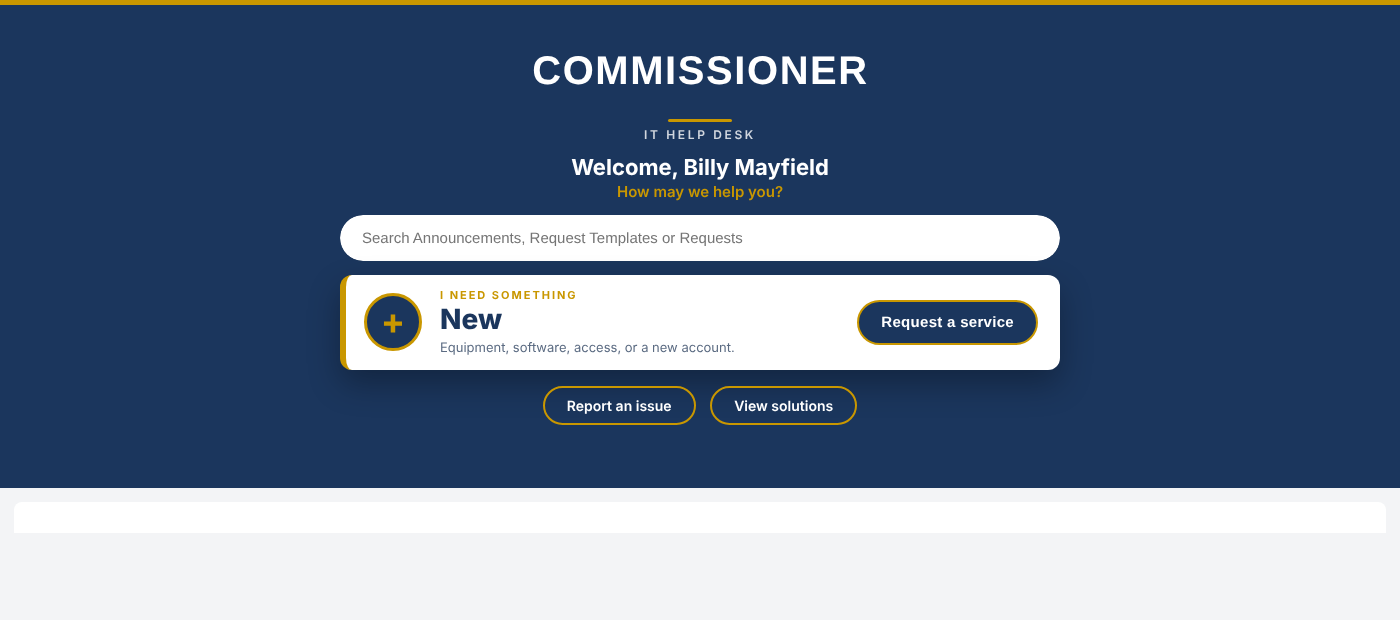
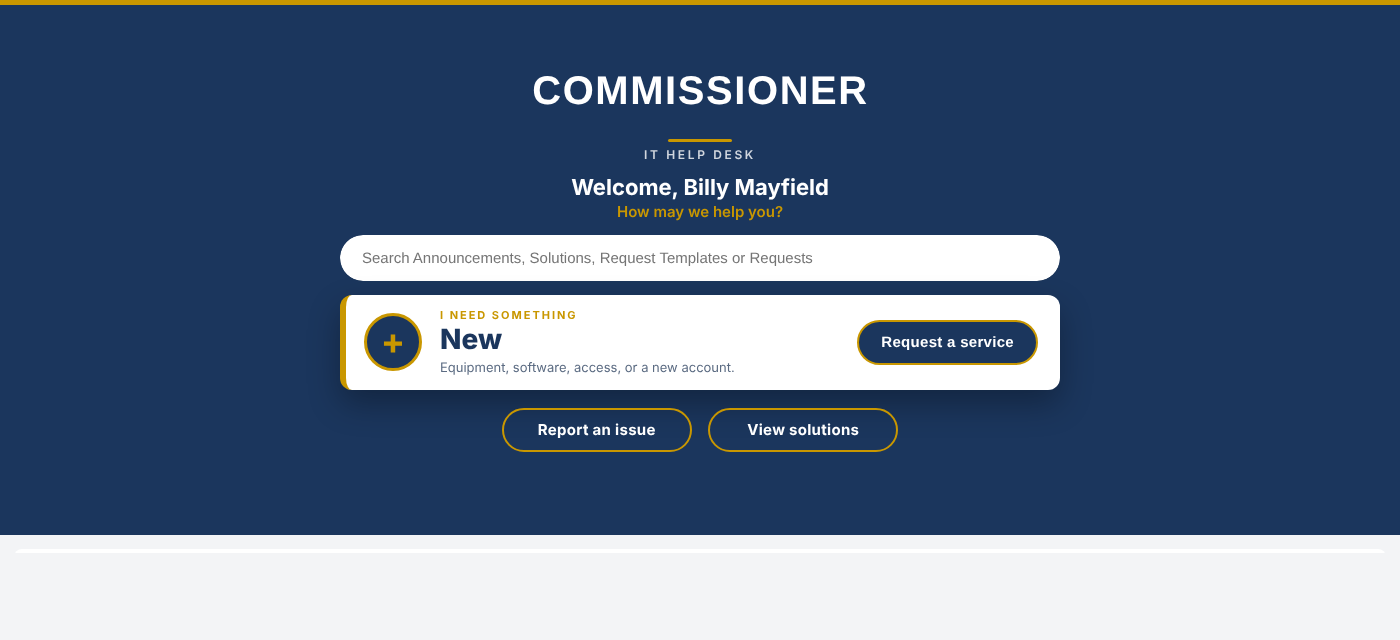
Enlarge secondary buttons and close gap under the service card
Report an issue and View solutions now match the Request a service
button size. Card row wrappers get explicit auto heights so SDP's fixed
row height no longer pushes the buttons to the bottom of the band.

Claude-Session: https://claude.ai/code/session_015pU9vvdz6hrWUMmPn62hMD

Changed region(s): [[0.2457, 0.0919, 0.7679, 0.7048], [0.0, 0.7661, 1.0, 0.8581]]

diff --git a/itdesk-requester-portal/requester-home-sdp-safe.html b/itdesk-requester-portal/requester-home-sdp-safe.html
@@ -1,9 +1,9 @@
-<!-- Commissioner IT Help Desk - Requester Home. SDP-SAFE VERSION (v8).
+<!-- Commissioner IT Help Desk - Requester Home. SDP-SAFE VERSION (v9).
      Fits inside the ~400px band SDP forces on this container. Only uses CSS the editor keeps.
      The one image URL below is the white NAME LOGO. -->
 <div class="req-dasboard-maincontainer req-dasboard-itdesk-container" id="upper-part-ssp" style="display:block; box-sizing:border-box; width:100%; height:auto; min-height:0; margin:0; padding:0; background-color:#1B365D; border:0; border-radius:0; overflow:hidden">
 
-  <div style="display:block; box-sizing:border-box; width:100%; margin:0; padding:26px 24px 22px; background-color:#1B365D; border-top:5px solid #C99700; text-align:center; font-family:'Segoe UI', Roboto, Helvetica, Arial, sans-serif">
+  <div style="display:block; box-sizing:border-box; width:100%; margin:0; padding:46px 24px 30px; background-color:#1B365D; border-top:5px solid #C99700; text-align:center; font-family:'Segoe UI', Roboto, Helvetica, Arial, sans-serif">
 
     <div aria-label="Rodney Ellis, Commissioner" style="display:block; width:100%; max-width:440px; height:80px; margin:0 auto; background-image:url(/app/itdesk/api/v3/ssp_background_images/273837000000728002/_images/88004); background-repeat:no-repeat; background-position:center; background-size:contain"></div>
     <div aria-hidden="true" style="display:block; width:64px; height:3px; margin:8px auto 6px; background-color:#C99700; border-radius:2px"></div>
@@ -18,8 +18,8 @@
       </div>
     </div>
 
-    <div class="req-dashboard-innerwrapper" style="display:block; width:100%; max-width:720px; margin:0 auto; padding:0; text-align:left">
-      <div class="req-dashboard-card-wrapper request-service-box" style="display:block; width:100%; margin:0; padding:0; float:none">
+    <div class="req-dashboard-innerwrapper" style="display:block; width:100%; max-width:720px; height:auto; min-height:0; max-height:none; margin:0 auto; padding:0; text-align:left">
+      <div class="req-dashboard-card-wrapper request-service-box" style="display:block; width:100%; height:auto; min-height:0; max-height:none; margin:0; padding:0; float:none">
         <div class="req-dashboard-card req-new" style="display:block; box-sizing:border-box; width:100%; height:auto; min-height:0; margin:0; padding:14px 22px 14px 18px; background-color:#FFFFFF; border:0; border-left:6px solid #C99700; border-radius:12px; box-shadow:0 14px 32px rgba(0,0,0,0.3)">
           <table style="width:100%; border-collapse:collapse; border:0; margin:0; padding:0">
             <tr>
@@ -48,9 +48,9 @@
       </div>
     </div>
 
-    <div style="display:block; width:100%; max-width:720px; margin:16px auto 0; padding:0; text-align:center">
-      <button class="req-dashboard-innerbutton" click-action="load-incident-templates-popup" id="create-issue-btn" style="display:inline-block; box-sizing:border-box; margin:0 5px 8px; padding:9px 22px; background-color:transparent; color:#FFFFFF; border:2px solid #C99700; border-radius:999px; font-size:14px; font-weight:600; text-decoration:none; cursor:pointer; font-family:'Segoe UI', Roboto, Helvetica, Arial, sans-serif">Report an issue</button>
-      <button class="req-dashboard-innerbutton" click-action="view-solutions" style="display:inline-block; box-sizing:border-box; margin:0 5px 8px; padding:9px 22px; background-color:transparent; color:#FFFFFF; border:2px solid #C99700; border-radius:999px; font-size:14px; font-weight:600; text-decoration:none; cursor:pointer; font-family:'Segoe UI', Roboto, Helvetica, Arial, sans-serif">View solutions</button>
+    <div style="display:block; width:100%; max-width:720px; height:auto; margin:18px auto 0; padding:0; text-align:center">
+      <button class="req-dashboard-innerbutton" click-action="load-incident-templates-popup" id="create-issue-btn" style="display:inline-block; box-sizing:border-box; min-width:190px; height:auto; margin:0 6px; padding:11px 22px; background-color:transparent; color:#FFFFFF; border:2px solid #C99700; border-radius:999px; font-size:15px; font-weight:700; letter-spacing:0.02em; line-height:1.25; text-align:center; text-decoration:none; cursor:pointer; font-family:'Segoe UI', Roboto, Helvetica, Arial, sans-serif">Report an issue</button>
+      <button class="req-dashboard-innerbutton" click-action="view-solutions" style="display:inline-block; box-sizing:border-box; min-width:190px; height:auto; margin:0 6px; padding:11px 22px; background-color:transparent; color:#FFFFFF; border:2px solid #C99700; border-radius:999px; font-size:15px; font-weight:700; letter-spacing:0.02em; line-height:1.25; text-align:center; text-decoration:none; cursor:pointer; font-family:'Segoe UI', Roboto, Helvetica, Arial, sans-serif">View solutions</button>
     </div>
 
   </div>
